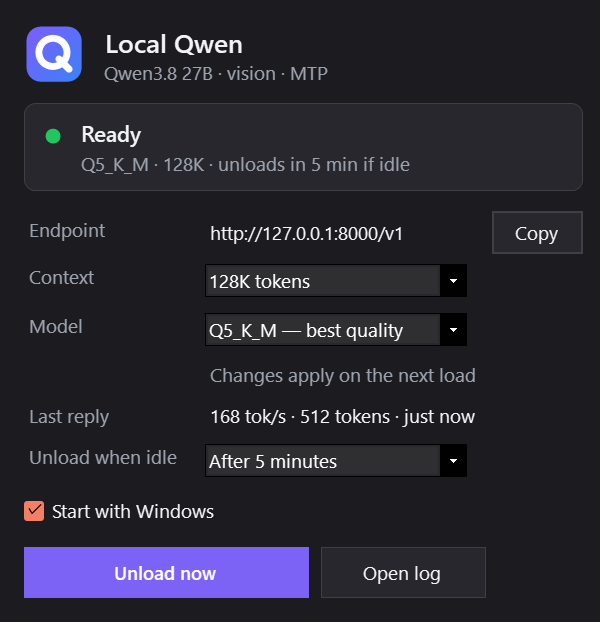
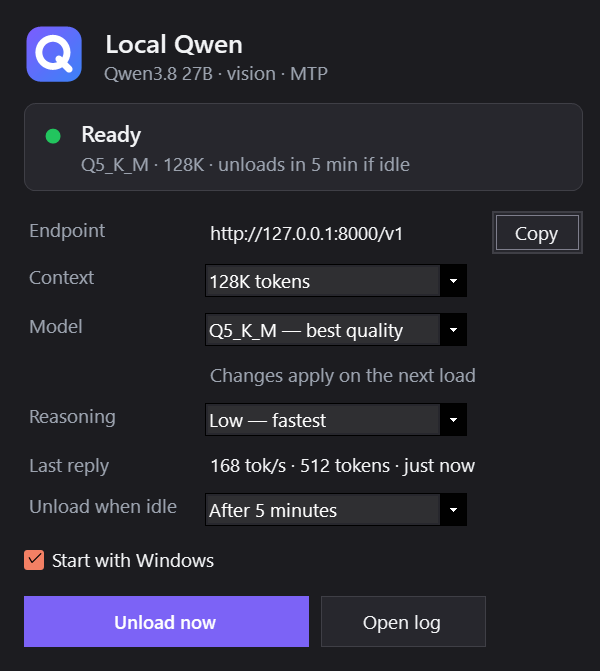
Reasoning switch (Low/Medium/High) and llama.cpp b11517
The gateway adds the tray's chosen thinking effort to each chat request and
drops earlier turns' thinking from the history; client-set values are never
overridden and switching needs no reload. Thinking text is the slow part of
Qwen3.8 output (MTP acceptance ~30% vs 70-90% in answers); Low measured
10-20% faster than the template default xhigh. README documents the
long-context measurements and the tested b11517 build. verify_artifact
tolerates a BOM in config.json.

diff --git a/src/LocalQwenTray/Desktop.cs b/src/LocalQwenTray/Desktop.cs
@@ -11,7 +11,8 @@ internal sealed class SingleInstance : IDisposable
 internal static class UiSpec
 {
     // Menu as shown while the model is asleep (the load item reads "Unload now" while loaded).
-    public static readonly string[] MenuLabels = ["Local Qwen", "Load now", "Context", "Model", "Unload when idle", "Start with Windows", "Copy API endpoint", "Copy API key", "Open log", "Open config folder", "Quit Local Qwen"];
+    public static readonly string[] MenuLabels = ["Local Qwen", "Load now", "Context", "Model", "Reasoning", "Unload when idle", "Start with Windows", "Copy API endpoint", "Copy API key", "Open log", "Open config folder", "Quit Local Qwen"];
+    public static string ReasoningText(string effort) => effort switch { "low" => "Low — fastest", "medium" => "Medium", _ => "High (xhigh) — most thorough" };
     public static bool StartsModelOnLaunch => false;   // the tray only listens; the first request loads the model
     public static bool StopsModelOnExit => true;       // without the gateway the model is unreachable, so quitting unloads it
 }
@@ -39,6 +40,8 @@ internal interface TrayActions
     LaunchChoice Choice { get; }                        // used by the next load
     (string Variant, int Context)? Loaded { get; }      // what is running now
     IReadOnlyList<string> InstalledVariants { get; }
+    string Reasoning { get; }                           // thinking effort applied to chat requests (no reload)
+    void SetReasoning(string effort);
     void SetContext(int tokens);
     void SetVariant(string variant);
     void SetIdle(int? minutes);
@@ -65,7 +68,7 @@ internal sealed class TrayContext : ApplicationContext, TrayActions
     readonly System.Windows.Forms.Timer timer = new() { Interval = 15000 };
     readonly CancellationTokenSource lifetime = new();
     readonly SynchronizationContext ui;
-    readonly ToolStripMenuItem header, loadUnload, contextMenu, modelMenu, idleMenu, autostartItem;
+    readonly ToolStripMenuItem header, loadUnload, contextMenu, modelMenu, reasoningMenu, idleMenu, autostartItem;
     StatusPanel? panel;
     TrayState? shownState;
     string? gatewayError, lastBalloon;
@@ -91,20 +94,27 @@ internal sealed class TrayContext : ApplicationContext, TrayActions
             contextMenu.DropDownItems.Add(item);
         }
         modelMenu = new(UiSpec.MenuLabels[3]);
-        idleMenu = new(UiSpec.MenuLabels[4]);
+        reasoningMenu = new(UiSpec.MenuLabels[4]);
+        foreach (var effort in Policy.ReasoningChoices)
+        {
+            var item = new ToolStripMenuItem(UiSpec.ReasoningText(effort)) { Tag = effort };
+            item.Click += (_, _) => SetReasoning((string)item.Tag!);
+            reasoningMenu.DropDownItems.Add(item);
+        }
+        idleMenu = new(UiSpec.MenuLabels[5]);
         foreach (var m in Policy.IdleChoices)
         {
             var item = new ToolStripMenuItem(m is null ? "Never" : m == 60 ? "After 1 hour" : $"After {m} min") { Tag = m };
             item.Click += (_, _) => SetIdle((int?)item.Tag);
             idleMenu.DropDownItems.Add(item);
         }
-        autostartItem = new(UiSpec.MenuLabels[5]);
-        var copy = new ToolStripMenuItem(UiSpec.MenuLabels[6]);
-        var copyKey = new ToolStripMenuItem(UiSpec.MenuLabels[7]) { Enabled = apiKey is not null };
-        var openLog = new ToolStripMenuItem(UiSpec.MenuLabels[8]);
-        var openConfig = new ToolStripMenuItem(UiSpec.MenuLabels[9]);
-        var quit = new ToolStripMenuItem(UiSpec.MenuLabels[10]);
-        menu.Items.AddRange([header, new ToolStripSeparator(), loadUnload, contextMenu, modelMenu, idleMenu, autostartItem, new ToolStripSeparator(), copy, copyKey, openLog, openConfig, new ToolStripSeparator(), quit]);
+        autostartItem = new(UiSpec.MenuLabels[6]);
+        var copy = new ToolStripMenuItem(UiSpec.MenuLabels[7]);
+        var copyKey = new ToolStripMenuItem(UiSpec.MenuLabels[8]) { Enabled = apiKey is not null };
+        var openLog = new ToolStripMenuItem(UiSpec.MenuLabels[9]);
+        var openConfig = new ToolStripMenuItem(UiSpec.MenuLabels[10]);
+        var quit = new ToolStripMenuItem(UiSpec.MenuLabels[11]);
+        menu.Items.AddRange([header, new ToolStripSeparator(), loadUnload, contextMenu, modelMenu, reasoningMenu, idleMenu, autostartItem, new ToolStripSeparator(), copy, copyKey, openLog, openConfig, new ToolStripSeparator(), quit]);
         copyKey.Click += (_, _) => { if (apiKey is not null) Clipboard.SetText(apiKey); };
         openConfig.Click += (_, _) => { Directory.CreateDirectory(stateDirectory); Process.Start(new ProcessStartInfo("explorer.exe", "\"" + stateDirectory + "\"") { UseShellExecute = false })?.Dispose(); };
         loadUnload.Click += async (_, _) => await (supervisor.IsReady ? Unload() : Load());
@@ -136,6 +146,14 @@ internal sealed class TrayContext : ApplicationContext, TrayActions
     public LaunchChoice Choice => settings.Choice;
     public (string Variant, int Context)? Loaded => supervisor.IsReady ? host.Loaded() : null;
     public IReadOnlyList<string> InstalledVariants => installedVariants();
+    public string Reasoning => settings.ReasoningOrDefault;
+    // Applied by the gateway to every following chat request; the loaded model keeps running.
+    public void SetReasoning(string effort)
+    {
+        settings.Reasoning = effort;
+        try { settings.Save(stateDirectory); } catch (Exception ex) { log.Write("Saving settings failed: " + ex.Message); }
+        RefreshView();
+    }
     public void SetContext(int tokens) => ApplyChoice(() => settings.ContextTokens = tokens);
     public void SetVariant(string variant) => ApplyChoice(() => settings.Variant = variant);
     // The choice applies to the next load. If the model is loaded and idle, unload now so the next request reloads it.
@@ -205,6 +223,7 @@ internal sealed class TrayContext : ApplicationContext, TrayActions
         loadUnload.Enabled = s != TrayState.Loading;
         foreach (ToolStripMenuItem item in idleMenu.DropDownItems) item.Checked = (int?)item.Tag == settings.IdleMinutes;
         foreach (ToolStripMenuItem item in contextMenu.DropDownItems) item.Checked = (int)item.Tag! == settings.Choice.Context;
+        foreach (ToolStripMenuItem item in reasoningMenu.DropDownItems) item.Checked = (string)item.Tag! == settings.ReasoningOrDefault;
         var installed = installedVariants();
         modelMenu.DropDownItems.Clear();
         foreach (var v in Policy.Variants.Union(installed))

diff --git a/src/LocalQwenTray/GatewayTests.cs b/src/LocalQwenTray/GatewayTests.cs
@@ -14,7 +14,12 @@ internal static class GatewayTests
     {
         const string key = "gw-test-key";
         int backendPort = FreePort(), publicPort = FreePort();
-        string? backendAuth = null;
+        string? backendAuth = null, backendBody = null;
+        string J(string json, string effort = "low") => Encoding.UTF8.GetString(Gateway.ApplyThinkingDefaults(Encoding.UTF8.GetBytes(json), effort));
+        SelfTests.Check("thinking defaults added to a plain chat request", J("{\"messages\":[]}") == "{\"messages\":[],\"chat_template_kwargs\":{\"reasoning_effort\":\"low\",\"preserve_thinking\":false}}");
+        SelfTests.Check("client's own reasoning effort is never overridden", J("{\"chat_template_kwargs\":{\"reasoning_effort\":\"xhigh\"}}").Contains("\"reasoning_effort\":\"xhigh\"") && !J("{\"reasoning_effort\":\"medium\"}").Contains("\"low\""));
+        SelfTests.Check("client's own preserve_thinking and enable_thinking kept", J("{\"chat_template_kwargs\":{\"preserve_thinking\":true,\"enable_thinking\":false}}").Contains("\"preserve_thinking\":true") && J("{\"chat_template_kwargs\":{\"enable_thinking\":false}}").Contains("\"enable_thinking\":false"));
+        SelfTests.Check("non-JSON or non-object bodies pass through untouched", J("not json") == "not json" && J("[1,2]") == "[1,2]");
         var fake = WebApplication.CreateSlimBuilder();
         fake.Logging.ClearProviders();
         fake.WebHost.ConfigureKestrel(o => o.Listen(IPAddress.Loopback, backendPort));
@@ -24,6 +29,7 @@ internal static class GatewayTests
             backendAuth = ctx.Request.Headers.Authorization.ToString();
             if (ctx.Request.Path == "/v1/models") { await ctx.Response.WriteAsync("{\"data\":[{\"id\":\"" + Policy.Model + "\",\"meta\":{\"n_ctx\":131072},\"live\":true}]}"); return; }
             var body = await new StreamReader(ctx.Request.Body).ReadToEndAsync();
+            backendBody = body;
             if (body.Contains("\"stream\":true"))
             {
                 ctx.Response.ContentType = "text/event-stream";
@@ -40,7 +46,8 @@ internal static class GatewayTests
         var host = new TestHost();
         var supervisor = new Supervisor(new Controller(host));
         var dir = Path.Combine(Path.GetTempPath(), "localqwen-gw-" + Guid.NewGuid());
-        await using var gateway = new Gateway(supervisor, key, publicPort, backendPort, dir);
+        string effort = "medium";
+        await using var gateway = new Gateway(supervisor, key, publicPort, backendPort, dir, null, () => effort);
         await gateway.StartAsync();
         using var client = new HttpClient { BaseAddress = new Uri($"http://127.0.0.1:{publicPort}"), Timeout = TimeSpan.FromSeconds(20) };
         HttpRequestMessage Req(HttpMethod m, string path, string? json = null, bool auth = true)
@@ -62,6 +69,10 @@ internal static class GatewayTests
             SelfTests.Check("first request loads the model on demand and is answered", r.IsSuccessStatusCode && text.Contains("echo:") && host.UpCalls == 1 && supervisor.IsReady);
         }
         SelfTests.Check("gateway authenticates to the private backend with the configured key", backendAuth == "Bearer " + key);
+        SelfTests.Check("tray reasoning setting reaches llama-server on chat requests", backendBody is not null && backendBody.Contains("\"reasoning_effort\":\"medium\"") && backendBody.Contains("\"preserve_thinking\":false"));
+        effort = "xhigh";
+        using (var r = await client.SendAsync(Req(HttpMethod.Post, "/v1/chat/completions", "{\"messages\":[]}"))) { }
+        SelfTests.Check("changing reasoning applies to the next request without a reload", backendBody!.Contains("\"reasoning_effort\":\"xhigh\"") && host.UpCalls == 1);
         SelfTests.Check("last reply speed captured from llama-server timings", supervisor.LastReply is { Tokens: 7, TokensPerSecond: 160.0 });
         using (var r = await client.SendAsync(Req(HttpMethod.Post, "/v1/chat/completions", "{\"stream\":true}"), HttpCompletionOption.ResponseHeadersRead))
         {

diff --git a/src/LocalQwenTray/Gateway.cs b/src/LocalQwenTray/Gateway.cs
@@ -1,6 +1,7 @@
 using System.Net;
 using System.Net.Http.Headers;
 using System.Text;
+using System.Text.Json.Nodes;
 using System.Text.RegularExpressions;
 using Microsoft.AspNetCore.Builder;
 using Microsoft.AspNetCore.Hosting;
@@ -10,7 +11,8 @@ using Microsoft.Extensions.Logging;
 namespace LocalQwenTray;
 // Loopback OpenAI-compatible front door. Clients keep using http://127.0.0.1:8000/v1 with the same key;
 // the request is held while the model loads on demand, then streamed through to the private llama-server.
-internal sealed class Gateway(Supervisor supervisor, string key, int publicPort, int backendPort, string stateDirectory, Action<string>? log = null) : IAsyncDisposable
+// For chat requests it also applies the tray's thinking defaults (see ApplyThinkingDefaults).
+internal sealed class Gateway(Supervisor supervisor, string key, int publicPort, int backendPort, string stateDirectory, Action<string>? log = null, Func<string>? reasoning = null) : IAsyncDisposable
 {
     WebApplication? app;
     readonly HttpClient backend = new(new SocketsHttpHandler { UseProxy = false, AutomaticDecompression = DecompressionMethods.None, PooledConnectionIdleTimeout = TimeSpan.FromSeconds(30) }) { Timeout = Timeout.InfiniteTimeSpan };
@@ -68,7 +70,14 @@ internal sealed class Gateway(Supervisor supervisor, string key, int publicPort,
         var target = $"http://127.0.0.1:{backendPort}{path}{ctx.Request.QueryString}";
         using var upstream = new HttpRequestMessage(new HttpMethod(ctx.Request.Method), target);
         bool hasBody = ctx.Request.ContentLength > 0 || ctx.Request.Headers.TransferEncoding.Count > 0;
-        if (hasBody)
+        bool chat = HttpMethods.IsPost(ctx.Request.Method) && path is "/v1/chat/completions" or "/chat/completions" or "/v1/responses";
+        if (hasBody && chat && reasoning is not null)
+        {
+            using var requestBody = new MemoryStream();
+            await ctx.Request.Body.CopyToAsync(requestBody, ctx.RequestAborted);
+            upstream.Content = new ByteArrayContent(ApplyThinkingDefaults(requestBody.ToArray(), reasoning()));
+        }
+        else if (hasBody)
         {
             upstream.Content = new StreamContent(ctx.Request.Body);
             if (ctx.Request.ContentLength is long length) upstream.Content.Headers.ContentLength = length;
@@ -99,6 +108,21 @@ internal sealed class Gateway(Supervisor supervisor, string key, int publicPort,
         }
         if (whole is not null && response.IsSuccessStatusCode) TryWrite(ModelsCachePath, whole.ToArray());
         if (response.IsSuccessStatusCode) RecordTimings(tail.Text());
+    }
+
+    // Thinking text is the slow part of Qwen3.8 output, so the tray sets the thinking effort (low/medium/xhigh) and
+    // drops earlier turns' thinking from the history (as Qwen's official template does). Values the client sets
+    // itself (chat_template_kwargs or a top-level reasoning_effort) are never overridden.
+    internal static byte[] ApplyThinkingDefaults(byte[] body, string effort)
+    {
+        JsonNode? root;
+        try { root = JsonNode.Parse(body); } catch (System.Text.Json.JsonException) { return body; }
+        if (root is not JsonObject request) return body;
+        var kwargs = request["chat_template_kwargs"] as JsonObject;
+        if (kwargs is null) { if (request.ContainsKey("chat_template_kwargs")) return body; request["chat_template_kwargs"] = kwargs = new JsonObject(); }
+        if (!kwargs.ContainsKey("reasoning_effort") && !request.ContainsKey("reasoning_effort")) kwargs["reasoning_effort"] = effort;
+        if (!kwargs.ContainsKey("preserve_thinking")) kwargs["preserve_thinking"] = false;
+        return Encoding.UTF8.GetBytes(request.ToJsonString());
     }
 
     // llama-server reports timings in the final JSON (or final SSE chunk); surface the last reply's speed in the UI.

diff --git a/src/LocalQwenTray/Entry.cs b/src/LocalQwenTray/Entry.cs
@@ -102,13 +102,18 @@ internal static class UiSmokeTests
                 if (host.LastContext != Policy.Ctx128 || !supervisor.IsReady) throw new Exception("256K should fall back to 128K when VRAM is short");
                 Console.WriteLine("PASS 256K falls back to 128K when free VRAM is short");
                 await supervisor.Unload(default); host.Free = 32000;
-                var idle = Item(context, UiSpec.MenuLabels[4]);
+                Item(context, "Reasoning").DropDownItems.OfType<ToolStripMenuItem>().Single(x => (string)x.Tag! == "xhigh").PerformClick();
+                if (settings.Reasoning != "xhigh" || AppSettings.Load(dir).Reasoning != "xhigh") throw new Exception("Reasoning choice not applied and saved");
+                if (host.UpCalls != 3 || supervisor.IsReady) throw new Exception("Changing reasoning must not load or reload the model");
+                Item(context, "Reasoning").DropDownItems.OfType<ToolStripMenuItem>().Single(x => (string)x.Tag! == "low").PerformClick();
+                Console.WriteLine("PASS reasoning choice applies without reloading and persists");
+                var idle = Item(context, UiSpec.MenuLabels[5]);
                 idle.DropDownItems.OfType<ToolStripMenuItem>().Single(x => x.Text == "After 15 min").PerformClick();
                 if (settings.IdleMinutes != 15 || supervisor.IdleTimeout != TimeSpan.FromMinutes(15) || AppSettings.Load(dir).IdleMinutes != 15) throw new Exception("Idle choice not applied and saved");
                 idle.DropDownItems.OfType<ToolStripMenuItem>().Single(x => x.Text == "Never").PerformClick();
                 if (supervisor.IdleTimeout is not null || AppSettings.Load(dir).IdleMinutes is not null) throw new Exception("Never not applied");
                 Console.WriteLine("PASS auto-unload choice applies immediately and persists");
-                Item(context, UiSpec.MenuLabels[5]).PerformClick();
+                Item(context, UiSpec.MenuLabels[6]).PerformClick();
                 if (!autostart) throw new Exception("Start with Windows toggle not applied");
                 Console.WriteLine("PASS Start with Windows toggle");
                 context.TogglePanel();
@@ -137,7 +142,7 @@ internal static class UiSmokeTests
             var loadedSupervisor = new Supervisor(new Controller(loadedHost));
             using var loadedContext = new TrayContext(loadedSupervisor, loadedHost, new SafeLog("test-secret-value", dir), new AppSettings(), dir, null, () => false, _ => { });
             using var exitTimer = new System.Windows.Forms.Timer { Interval = 200 };
-            exitTimer.Tick += (_, _) => { exitTimer.Stop(); Item(loadedContext, UiSpec.MenuLabels[10]).PerformClick(); };
+            exitTimer.Tick += (_, _) => { exitTimer.Stop(); Item(loadedContext, UiSpec.MenuLabels[11]).PerformClick(); };
             exitTimer.Start(); Application.Run(loadedContext);
             if (loadedHost.StopCalls != 1 || loadedHost.State.Running) { Console.WriteLine("FAIL quitting a loaded tray must unload the model"); result = 1; }
             else Console.WriteLine("PASS quitting the tray unloads a loaded model");

diff --git a/src/LocalQwenTray/StatusPanel.cs b/src/LocalQwenTray/StatusPanel.cs
@@ -22,7 +22,7 @@ internal sealed class StatusPanel : Form
     readonly Label stateTitle = new(), stateDetail = new(), lastReply = new();
     readonly Panel dot = new();
     readonly Button primary = new(), logs = new(), copy = new();
-    readonly ComboBox idle = new(), contextBox = new(), modelBox = new();
+    readonly ComboBox idle = new(), contextBox = new(), modelBox = new(), reasoningBox = new();
     readonly Label modelHint = new();
     readonly CheckBox autostart = new();
     readonly System.Windows.Forms.Timer refresh = new() { Interval = 1000 };
@@ -81,6 +81,9 @@ internal sealed class StatusPanel : Form
         Row("Model", modelBox);
         modelHint.AutoSize = true; modelHint.ForeColor = p.Muted; modelHint.MaximumSize = new Size(D(250), 0);
         Row("", modelHint);
+        Combo(reasoningBox); foreach (var r in Policy.ReasoningChoices) reasoningBox.Items.Add(UiSpec.ReasoningText(r));
+        reasoningBox.SelectedIndexChanged += (_, _) => { if (!updating) actions.SetReasoning(Policy.ReasoningChoices[reasoningBox.SelectedIndex]); };
+        Row("Reasoning", reasoningBox);
         lastReply.AutoSize = true; Row("Last reply", lastReply);
         Combo(idle);
         foreach (var m in Policy.IdleChoices) idle.Items.Add(IdleText(m));
@@ -144,6 +147,7 @@ internal sealed class StatusPanel : Form
             autostart.Checked = actions.Autostart;
             var choice = actions.Choice;
             contextBox.SelectedIndex = Math.Max(0, Array.IndexOf(Policy.ContextChoices, choice.Context));
+            reasoningBox.SelectedIndex = Math.Max(0, Array.IndexOf(Policy.ReasoningChoices, actions.Reasoning));
             var installed = actions.InstalledVariants;
             if (!modelBox.Items.Cast<VariantItem>().Select(x => x.Variant).SequenceEqual(installed))
             { modelBox.Items.Clear(); foreach (var v in installed) modelBox.Items.Add(new VariantItem(v)); }

diff --git a/src/LocalQwenTray/SelfTests.cs b/src/LocalQwenTray/SelfTests.cs
@@ -73,7 +73,7 @@ internal static class SelfTests
             GatewayTests.Run().GetAwaiter().GetResult();
             Check("tray launch only listens; it does not load the model", !UiSpec.StartsModelOnLaunch);
             Check("quitting the tray unloads the model it serves", UiSpec.StopsModelOnExit);
-            Check("tray menu", UiSpec.MenuLabels.SequenceEqual(new[] {"Local Qwen","Load now","Context","Model","Unload when idle","Start with Windows","Copy API endpoint","Copy API key","Open log","Open config folder","Quit Local Qwen"}));
+            Check("tray menu", UiSpec.MenuLabels.SequenceEqual(new[] {"Local Qwen","Load now","Context","Model","Reasoning","Unload when idle","Start with Windows","Copy API endpoint","Copy API key","Open log","Open config folder","Quit Local Qwen"}));
             Check("default choice is Q5_K_M at 128K and settings fall back safely", LaunchChoice.Default == new LaunchChoice("q5_K_M", 131072) && new AppSettings { ContextTokens = 999, Variant = "bogus" }.Choice == LaunchChoice.Default);
             Check("gateway owns the public port; engine is private", Policy.PublicPort == 8000 && Policy.BackendPort != Policy.PublicPort);
             Check("default auto-unload is 5 minutes and Never is offered", Policy.DefaultIdleMinutes == 5 && Policy.IdleChoices.Contains(null) && new AppSettings().IdleMinutes == 5);

diff --git a/src/LocalQwenTray/Policy.cs b/src/LocalQwenTray/Policy.cs
@@ -18,6 +18,10 @@ internal static class Policy
     public static readonly int[] ContextChoices = [Ctx128, Ctx256];
     public const int ContextCap = Ctx256, MinimumContext = 65536;
     public const string DefaultVariant = "q5_K_M";
+    // Qwen3.8 thinking effort (chat template kwarg). Thinking text is the slow part: MTP accepts ~30% of drafted
+    // tokens there vs 70-90% in answers; "low" measured 10-20% faster than the template default "xhigh" (2026-10-09).
+    public static readonly string[] ReasoningChoices = ["low", "medium", "xhigh"];
+    public const string DefaultReasoning = "low";
     public static readonly string[] Variants = ["q5_K_M", "q4_K_M"];
     // Whole-engine VRAM for Q5_K_M with the vision projector: 128K measured 25,042 MiB (2026-10-08); 256K measured
     // 28,531 MiB (2026-10-09, 17.6 s load, 157.5 tok/s, no spill). A lighter quant

diff --git a/src/LocalQwenTray/Supervisor.cs b/src/LocalQwenTray/Supervisor.cs
@@ -8,6 +8,8 @@ internal sealed class AppSettings
     public int? IdleMinutes { get; set; } = Policy.DefaultIdleMinutes;
     public int ContextTokens { get; set; } = Policy.Ctx128;
     public string Variant { get; set; } = Policy.DefaultVariant;
+    public string Reasoning { get; set; } = Policy.DefaultReasoning;
+    public string ReasoningOrDefault => Policy.ReasoningChoices.Contains(Reasoning) ? Reasoning : Policy.DefaultReasoning;
     public LaunchChoice Choice => new(Policy.Variants.Contains(Variant) ? Variant : Policy.DefaultVariant, Policy.ContextChoices.Contains(ContextTokens) ? ContextTokens : Policy.Ctx128);
     static string PathFor(string dir) => Path.Combine(dir, "settings.json");
     public static AppSettings Load(string dir)

diff --git a/src/LocalQwenTray/Program.cs b/src/LocalQwenTray/Program.cs
@@ -77,7 +77,7 @@ internal static class Program
             async Task<string?> EnsureGateway()
             {
                 if (gateway is not null) return null;
-                var candidate = new Gateway(supervisor, key, Policy.PublicPort, Policy.BackendPort, stateDirectory, gatewayLog.Write);
+                var candidate = new Gateway(supervisor, key, Policy.PublicPort, Policy.BackendPort, stateDirectory, gatewayLog.Write, () => settings.ReasoningOrDefault);
                 try { await candidate.StartAsync(); gateway = candidate; gatewayLog.Write($"Listening on http://127.0.0.1:{Policy.PublicPort}/v1 (model loads on demand)"); return null; }
                 catch (Exception ex)
                 {

diff --git a/src/LocalQwenTray/verify_artifact.py b/src/LocalQwenTray/verify_artifact.py
@@ -58,7 +58,7 @@ try:
     print("Observed native state:", json.dumps(after))
     config = Path(os.environ["LOCALAPPDATA"]) / "LocalQwen" / "config.json"
     assert config.exists(), "Expected config.json after the first tray run"
-    key = json.loads(config.read_text(encoding="utf-8"))["ApiKey"]
+    key = json.loads(config.read_text(encoding="utf-8-sig"))["ApiKey"]  # utf-8-sig tolerates a BOM (e.g. saved from Notepad)
     assert key, "config.json has no ApiKey"
     log = Path(os.environ["LOCALAPPDATA"]) / "LocalQwen" / "tray.log"
     assert log.exists(), "Expected private per-user runtime log"

diff --git a/README.md b/README.md
@@ -44,6 +44,7 @@ Ollama and plain llama.cpp ran at about the same speed. The gain comes from sett
 - **Always listening, loaded on demand.** The tray starts at login and holds port 8000. The first real request starts `llama-server`; the request waits about 20–25 s for the load and then streams normally. After the idle timeout (default 5 min; 1/5/15/30/60 min or never) the model is unloaded. Model-list and health requests never wake the GPU, and several first requests at once share a single load.
 - **Uses Ollama's downloads in place.** It reads Ollama's manifests and loads the GGUF blobs directly, so nothing is copied or converted and Ollama keeps working. Every downloaded tag of the configured model (e.g. `q5_K_M`, `q4_K_M`) appears as a choice in the tray.
 - **Vision.** If the Ollama model includes a vision projector, it is loaded with `--mmproj`, so image input works.
+- **Reasoning: Low / Medium / High.** Qwen3.8's *thinking* text is the slowest part of its output: MTP accepts only about 30% of drafted tokens there, versus 70–90% in answers, so thinking runs at about 70–100 tok/s and answers at 125–160. The tray adds the chosen effort to each chat request (default **Low**, measured 10–20% faster than the template default *xhigh*). It also drops earlier turns' thinking from the history, as Qwen's official template does, so long conversations grow more slowly. Switching takes effect on the next message, with no reload. Clients that set `reasoning_effort` or `preserve_thinking` themselves are never overridden.
 - **Context 128K or 256K.** 256K is the model's trained maximum. If there isn't enough free VRAM for 256K when the model loads, it falls back to 128K and the panel tells you why. It never spills into system RAM.
 - **Checks before and after loading.** Free VRAM is checked first, and a load that doesn't fit is refused with a clear message (HTTP 503). After loading, the log is checked to confirm that all layers, the KV cache and the MTP draft are on the GPU.
 - **Safe process ownership.** It only ever stops the `llama-server` it started, tracked by PID, start time and executable. Unknown programs on its ports are never killed.
@@ -51,14 +52,14 @@ Ollama and plain llama.cpp ran at about the same speed. The gain comes from sett
 ### The tray
 
 - **Icon dot:** grey = sleeping, amber = loading, green = ready, blue = generating, red = needs attention.
-- **Left-click** opens the status panel (shown above). **Right-click** gives the same actions as a menu: Load/Unload now, Context, Model, Unload when idle, Start with Windows, Copy API endpoint, Copy API key, Open log, Open config folder, Quit.
+- **Left-click** opens the status panel (shown above). **Right-click** gives the same actions as a menu: Load/Unload now, Context, Model, Reasoning, Unload when idle, Start with Windows, Copy API endpoint, Copy API key, Open log, Open config folder, Quit.
 - Quitting the tray also unloads the model, since clients can't reach it without the tray.
 
 ## Requirements
 
 - Windows 10/11 x64 and an NVIDIA GPU. It was built and measured on an RTX 5090 (32 GB); the default model needs about 25 GB of VRAM at 128K context, or about 28.5 GB at 256K.
 - [.NET 10 SDK](https://dotnet.microsoft.com/download) to build. The ASP.NET Core 10 runtime is needed to run it.
-- A llama.cpp **Windows CUDA** build with MTP support. Tested with release [b11429](https://github.com/ggml-org/llama.cpp/releases/tag/b11429): `llama-b11429-bin-win-cuda-13.4-x64.zip`. You may also need `cudart-llama-bin-win-cuda-13.4-x64.zip` unless the CUDA 13 runtime is already installed.
+- A llama.cpp **Windows CUDA** build with MTP support. Tested with releases [b11517](https://github.com/ggml-org/llama.cpp/releases/tag/b11517) (current; 5–14% faster on thinking text than b11429) and [b11429](https://github.com/ggml-org/llama.cpp/releases/tag/b11429): `llama-b11517-bin-win-cuda-13.4-x64.zip`. You may also need `cudart-llama-bin-win-cuda-13.4-x64.zip` unless the CUDA 13 runtime is already installed. Use a Clang-built release; MSVC builds have a known speculative-decoding slowdown on Windows ([#28218](https://github.com/ggml-org/llama.cpp/issues/28218)).
 - [Ollama](https://ollama.com), used only to download the model.
 
 ## Install
@@ -90,7 +91,7 @@ Ollama and plain llama.cpp ran at about the same speed. The gain comes from sett
 | `ModelName` | Name advertised on `/v1/models`. |
 | `ClientSyncCommand` | Optional command run after a load whose context size changed. `{context}` is replaced with the token count. Use it to update your clients' context settings. |
 
-Tray choices (context, model, idle timeout) are saved in `settings.json` in the same folder. Logs are in the same folder: `tray.log` and `native-engine.log`.
+Tray choices (context, model, reasoning, idle timeout) are saved in `settings.json` in the same folder. Logs are in the same folder: `tray.log` and `native-engine.log`.
 
 ## Customizing
 
@@ -106,6 +107,7 @@ Pull requests are welcome.
 
 - **Don't set "CUDA – Sysmem Fallback Policy: Prefer No Sysmem Fallback"** for `llama-server.exe` in the NVIDIA Control Panel. With a large model resident, it made the whole desktop lag by seconds: the mouse, typing, both monitors. Driver Default fixed it. This app checks VRAM before loading instead.
 - **Crashes with "CUDA error: an illegal memory access" during long generations** can be the GPU, not llama.cpp. Check the Windows **System** log for `nvlddmkm` events. On the development machine they were caused by an undervolt curve that boosted to an unstable clock whenever the load dipped. Capping the curve fixed it, with no speed loss.
+- **Where the time goes at long context.** At 84K tokens of conversation, answers still ran at 125–140 tok/s, but thinking dropped to 67–88. Lowering the reasoning effort helped more than compacting earlier: going from 16K to 84K costs only about 15–20%. Draft depth 5 stayed best; 2 and 3 were slower overall. An 8-bit KV cache gave no gain for +1.5 GB, and on an RTX 5090 Q4_K_M was *slower* than Q5_K_M.
 - **Prompt re-processing on hybrid models.** Qwen3.8 mixes attention and recurrent layers. Appending to a conversation is cheap, because only the new tokens are processed, but editing earlier history forces a full re-read.
 
 ## Tests
